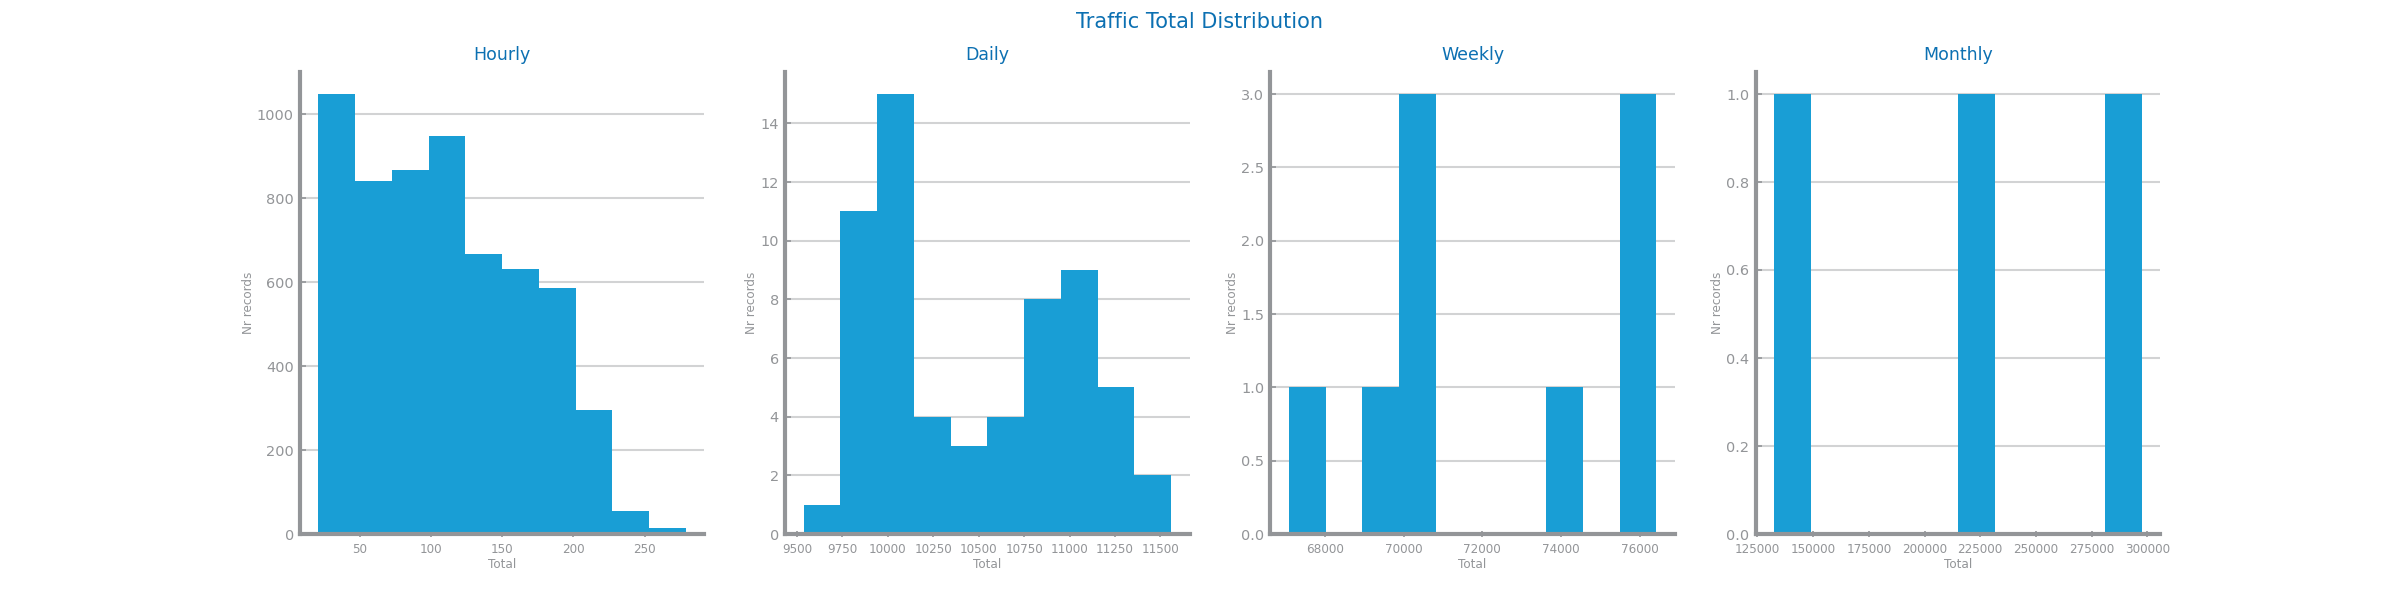
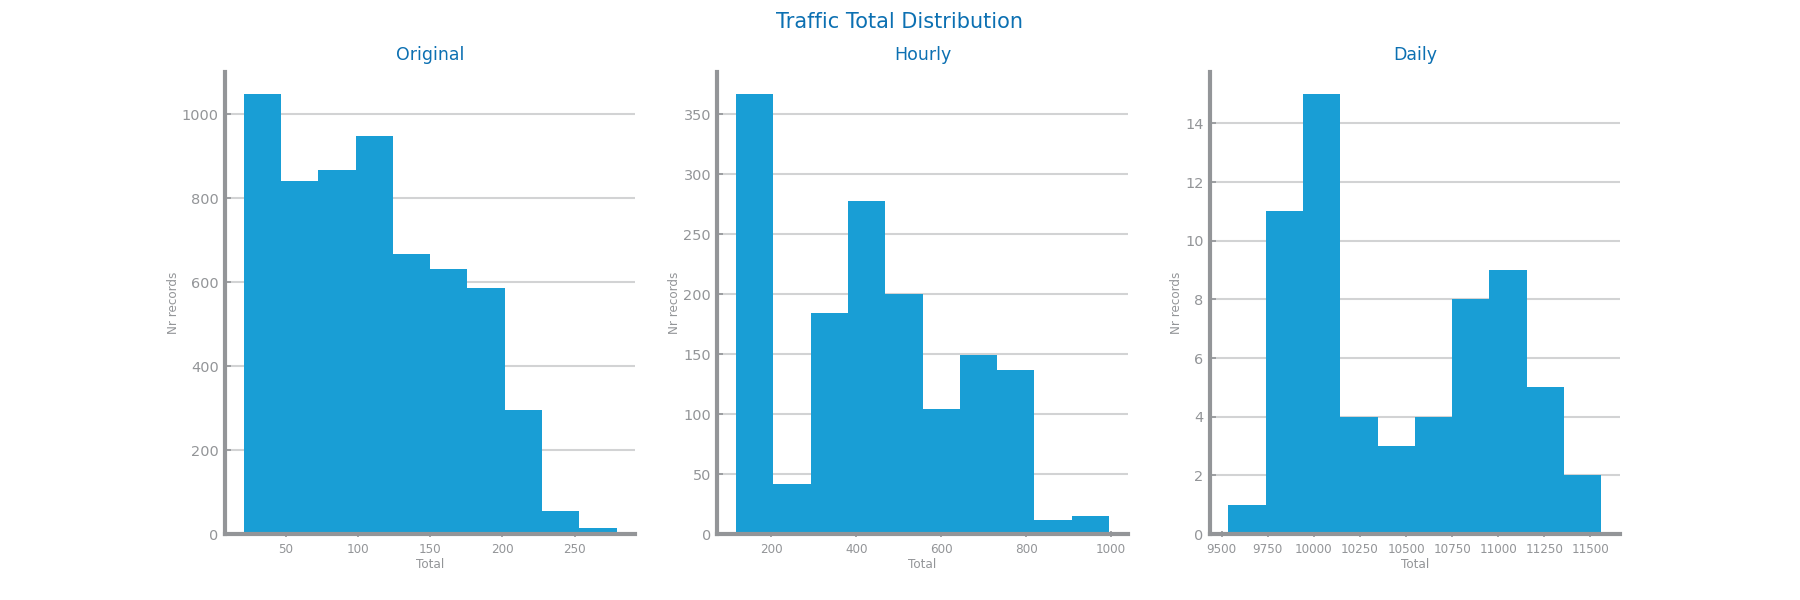
profiling images fixed

diff --git a/time_series/Profiling/profiling_analysis.py b/time_series/Profiling/profiling_analysis.py
@@ -73,42 +73,58 @@ def get_lagged_series(series: Series, max_lag: int, delta: int = 1):
 # 2. ANALYSIS FUNCTIONS 
 # =============================================================================
 
-def analyze_distribution(series: Series, target: str, file_tag: str, output_dir: Path):
+def analyze_distribution(series: Series, target: str, file_tag: str, output_dir: Path, granularities: dict):
     print(f"--- Processing Distribution for {file_tag} ---")
     
-    # 2.1 Aggregations for Distribution
-    ss_days = ts_aggregation_by(series, gran_level="D", agg_func="sum")
-    ss_weeks = ts_aggregation_by(series, gran_level="W", agg_func="sum")
-    ss_months = ts_aggregation_by(series, gran_level="ME", agg_func="sum")
-
-    grans = [series, ss_days, ss_weeks, ss_months]
-    gran_names = ["Hourly", "Daily", "Weekly", "Monthly"]
+    # 2.1 Aggregations for Distribution baseadas nas granularidades específicas
+    grans = []
+    gran_names = []
+    
+    # Adicionar série original
+    grans.append(series)
+    gran_names.append("Original")
+    
+    # Adicionar agregações específicas do dataset
+    for gran_name, gran_level in granularities.items():
+        aggregated = ts_aggregation_by(series, gran_level=gran_level, agg_func="sum")
+        grans.append(aggregated)
+        gran_names.append(gran_name)
 
     # 2.2 Histograms Matrix
     fig, axs = subplots(1, len(grans), figsize=(len(grans) * HEIGHT, HEIGHT))
     fig.suptitle(f"{file_tag} {target} Distribution")
+    
+    if len(grans) == 1:
+        axs = [axs]  # Para caso só haja 1 gráfico
+    
     for i in range(len(grans)):
         set_chart_labels(axs[i], title=f"{gran_names[i]}", xlabel=target, ylabel="Nr records")
         axs[i].hist(grans[i].dropna().values)
     savefig(output_dir / f"{file_tag}_distribution_histograms.png")
-    plt.close()  # ✅ ADICIONAR: Fecha a figura em vez de mostrar
+    plt.close()
     print(f"   📊 Saved: {output_dir / f'{file_tag}_distribution_histograms.png'}")
 
-    # 2.3 Boxplots Comparison
+    # 2.3 Boxplots Comparison (usar as 2 primeiras granularidades)
     fig, axs = subplots(2, 2, figsize=(2 * HEIGHT, HEIGHT))
-    set_chart_labels(axs[0, 0], title="HOURLY")
-    axs[0, 0].boxplot(series.dropna())
     
-    set_chart_labels(axs[0, 1], title="WEEKLY")
-    axs[0, 1].boxplot(ss_weeks.dropna())
+    set_chart_labels(axs[0, 0], title=gran_names[0].upper())
+    axs[0, 0].boxplot(grans[0].dropna())
+    
+    if len(grans) > 1:
+        set_chart_labels(axs[0, 1], title=gran_names[1].upper())
+        axs[0, 1].boxplot(grans[1].dropna())
+    else:
+        axs[0, 1].set_axis_off()
     
     axs[1, 0].grid(False); axs[1, 0].set_axis_off()
-    axs[1, 0].text(0.2, 0, str(series.describe()), fontsize="small")
+    axs[1, 0].text(0.2, 0, str(grans[0].describe()), fontsize="small")
     
     axs[1, 1].grid(False); axs[1, 1].set_axis_off()
-    axs[1, 1].text(0.2, 0, str(ss_weeks.describe()), fontsize="small")
+    if len(grans) > 1:
+        axs[1, 1].text(0.2, 0, str(grans[1].describe()), fontsize="small")
+    
     savefig(output_dir / f"{file_tag}_distribution_boxplots.png")
-    plt.close()  # ✅ ADICIONAR
+    plt.close()
     print(f"   📊 Saved: {output_dir / f'{file_tag}_distribution_boxplots.png'}")
     
     # 2.4 Lag Plot
@@ -116,7 +132,7 @@ def analyze_distribution(series: Series, target: str, file_tag: str, output_dir:
     lags = get_lagged_series(series, 20, 10)
     plot_multiline_chart(series.index.to_list(), lags, xlabel="Timestamp", ylabel=target)
     savefig(output_dir / f"{file_tag}_lag_plot.png")
-    plt.close()  # ✅ ADICIONAR
+    plt.close()
     print(f"   📊 Saved: {output_dir / f'{file_tag}_lag_plot.png'}")
     
     # 2.5 Autocorrelation
@@ -240,19 +256,28 @@ def analyze_seasonality(series: Series, target: str, file_tag: str, output_dir: 
 
 if __name__ == "__main__":
     
-    # Configuração dos datasets
+    # Configuração dos datasets com granularidades específicas
     datasets = [
         {
             "filename": SCRIPT_DIR / "TrafficTwoMonth_processed.csv",
             "file_tag": "Traffic",
             "target_col": "Total",
-            "output_dir": SCRIPT_DIR / "outputs" / "TrafficTwoMonth"
+            "output_dir": SCRIPT_DIR / "outputs" / "TrafficTwoMonth",
+            "index_col": "Timestamp",
+            "granularities": {
+                "Hourly": "1H",   # Agregação por hora
+                "Daily": "1D",    # Agregação por dia
+            }
         },
         {
             "filename": SCRIPT_DIR / "EconomicUSA_processed.csv",
             "file_tag": "Economic",
             "target_col": "Inflation Rate (%)",
-            "output_dir": SCRIPT_DIR / "outputs" / "EconomicUSA"
+            "output_dir": SCRIPT_DIR / "outputs" / "EconomicUSA",
+            "index_col": "Date",
+            "granularities": {
+                "Yearly": "1Y"    # Agregação por ano (Year End)
+            }
         }
     ]
     
@@ -269,6 +294,8 @@ if __name__ == "__main__":
         FILENAME = ds_config['filename']
         FILE_TAG = ds_config['file_tag']
         TARGET_COL = ds_config['target_col']
+        INDEX_COL = ds_config['index_col']
+        GRANULARITIES = ds_config['granularities']
         
         # Carregar Dados
         if FILENAME.exists():
@@ -278,7 +305,7 @@ if __name__ == "__main__":
                 # Carregar com parse_dates no índice
                 data = read_csv(
                     FILENAME,
-                    index_col='Timestamp' if FILE_TAG == "Traffic" else 'Date',  # Economic usa 'Date'
+                    index_col=INDEX_COL,
                     parse_dates=True
                 )
                 
@@ -293,6 +320,7 @@ if __name__ == "__main__":
                 print(f"✅ Dados carregados! Registos: {len(data)}")
                 print(f"📊 Colunas: {data.columns.tolist()}")
                 print(f"📅 Período: {data.index.min()} até {data.index.max()}")
+                print(f"🔍 Granularidades de análise: {list(GRANULARITIES.keys())}")
                 print(f"\n🔍 Primeiras linhas:")
                 print(data.head())
                 
@@ -302,7 +330,7 @@ if __name__ == "__main__":
                 # Executar Análises
                 print(f"\n📁 Imagens serão guardadas em: {OUTPUT_DIR}\n")
                 
-                analyze_distribution(series, TARGET_COL, FILE_TAG, OUTPUT_DIR)
+                analyze_distribution(series, TARGET_COL, FILE_TAG, OUTPUT_DIR, GRANULARITIES)
                 analyze_stationarity(series, TARGET_COL, FILE_TAG, OUTPUT_DIR)
                 analyze_seasonality(series, TARGET_COL, FILE_TAG, OUTPUT_DIR)
                 
